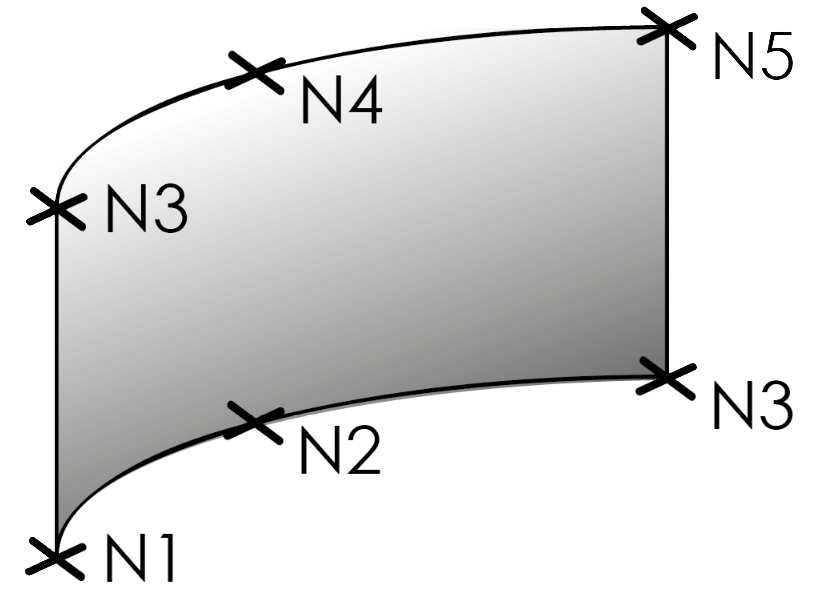
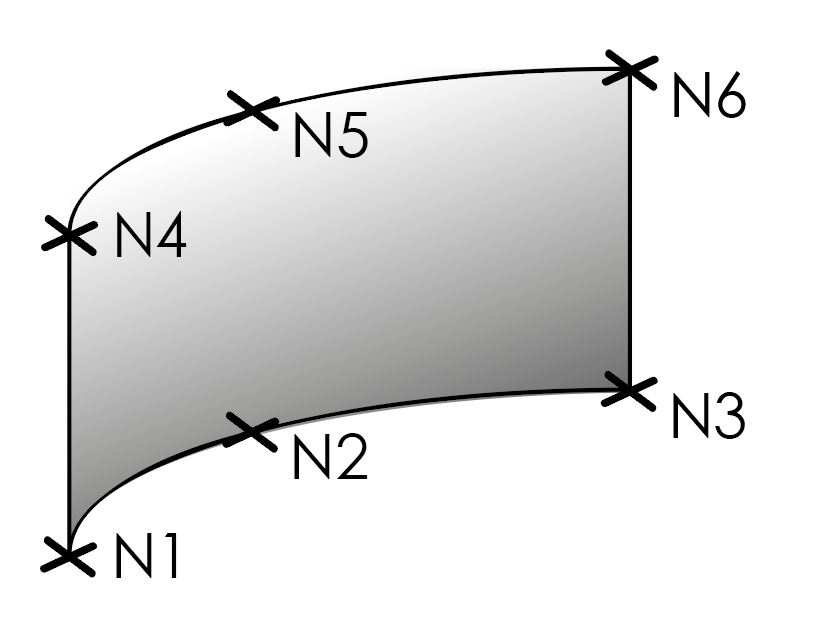
28_RelConnectsRigidLink.htm, 33_RelConnectsRigidCross.htm and 34_RelConnectsRigidMember.htm added enums for Graphisoft Text fixed Reviewed picture in 8_StructuralSurfaceMember

diff --git a/Content/A_Objects/33_RelConnectsRigidCross.htm b/Content/A_Objects/33_RelConnectsRigidCross.htm
@@ -1,5 +1,5 @@
 <?xml version="1.0" encoding="utf-8"?>
-<html xmlns:MadCap="http://www.madcapsoftware.com/Schemas/MadCap.xsd" MadCap:lastBlockDepth="6" MadCap:lastHeight="3339" MadCap:lastWidth="1826">
+<html xmlns:MadCap="http://www.madcapsoftware.com/Schemas/MadCap.xsd" MadCap:lastBlockDepth="6" MadCap:lastHeight="3765" MadCap:lastWidth="1826">
     <head>
         <link href="../Resources/TableStyles/NewStyle.css" rel="stylesheet" MadCap:stylesheetType="table" />
     </head>
@@ -7,7 +7,7 @@
         <p style="font-size: 18pt;text-decoration: none;">RelConnectsRigidCross</p>
         <hr />
         <p style="font-size: 15pt;">Rigid Cross</p>
-        <p>Rigit cross is defining structural behavior of node  (<a href="5_StructuralPointConnection.htm">StructuralPointConnection</a>), where two 1D elements (<a href="7_StructuralCurveMember.htm">StructuralCurveMember</a>) are being crossed. 1D members could be independent or dependency  could be defined in following excel sheet. Rigid cross is often used for bracing of the structure. </p>
+        <p>RigidCross is defining structural behavior of node  (<a href="5_StructuralPointConnection.htm">StructuralPointConnection</a>), where two 1D elements (<a href="7_StructuralCurveMember.htm">StructuralCurveMember</a>) are being crossed. 1D members could be independent or dependency  could be defined in following excel sheet. Rigid cross is often used for bracing of the structure. </p>
         <p style="text-align: left;">
             <img src="../Resources/Images/33_RigidCross.PNG" style="width: 409px;height: 336px;" />
         </p>
@@ -101,7 +101,11 @@
                     <td style="text-align: center;font-size: 9pt;vertical-align: middle;" class="TableStyle-NewStyle-BodyE-Column1-Body1">
                         <p>Free</p>
                         <p>Rigid</p>
+                        <p>Rigid compression only</p>
+                        <p>Rigid tension only</p>
                         <p>Flexible</p>
+                        <p>Flexible compression only</p>
+                        <p>Flexible tension only</p>
                         <p>Non-linear</p>
                     </td>
                     <td class="TableStyle-NewStyle-BodyE-Column1-Body1" style="font-size: 9pt;">no</td>
@@ -109,6 +113,7 @@
                     <td style="font-size: 9pt;text-align: left;vertical-align: middle;" class="TableStyle-NewStyle-BodyD-Column1-Body1">
                         <p>Displacement of first connected member</p>
                         <p>Free - That is it imposes no constraint in the direction. Rigid - The connection in fully rigid in the specified direction. Flexible - The connection is flexible (elastic) in the specified direction. Non-linear - resistance in specified direction could be defined</p>
+                        <p>Rigid/Flexible compression/tension only - acts rigid or flexible, only for defined strain (compression or tension)</p>
                     </td>
                 </tr>
                 <tr class="TableStyle-NewStyle-Body-Body2">
@@ -119,7 +124,11 @@
                     <td style="text-align: center;font-size: 9pt;vertical-align: middle;" class="TableStyle-NewStyle-BodyE-Column1-Body2">
                         <p>Free</p>
                         <p>Rigid</p>
+                        <p>Rigid compression only</p>
+                        <p>Rigid tension only</p>
                         <p>Flexible</p>
+                        <p>Flexible compression only</p>
+                        <p>Flexible tension only</p>
                         <p>Non-linear</p>
                     </td>
                     <td class="TableStyle-NewStyle-BodyE-Column1-Body2" style="font-size: 9pt;">no</td>
@@ -127,6 +136,7 @@
                     <td style="font-size: 9pt;text-align: left;vertical-align: middle;" class="TableStyle-NewStyle-BodyD-Column1-Body2">
                         <p>Displacement of second connected member</p>
                         <p>Free - That is it imposes no constraint in the direction. Rigid - The connection in fully rigid in the specified direction. Flexible - The connection is flexible (elastic) in the specified direction. Non-linear - resistance in specified direction could be defined</p>
+                        <p>Rigid/Flexible compression/tension only - acts rigid or flexible, only for defined strain (compression or tension)</p>
                     </td>
                 </tr>
                 <tr class="TableStyle-NewStyle-Body-Body1">
@@ -137,7 +147,11 @@
                     <td style="text-align: center;font-size: 9pt;vertical-align: middle;" class="TableStyle-NewStyle-BodyE-Column1-Body1">
                         <p>Free</p>
                         <p>Rigid</p>
+                        <p>Rigid compression only</p>
+                        <p>Rigid tension only</p>
                         <p>Flexible</p>
+                        <p>Flexible compression only</p>
+                        <p>Flexible tension only</p>
                         <p>Non-linear</p>
                     </td>
                     <td class="TableStyle-NewStyle-BodyE-Column1-Body1" style="font-size: 9pt;">no</td>
@@ -145,6 +159,7 @@
                     <td style="font-size: 9pt;text-align: left;vertical-align: middle;" class="TableStyle-NewStyle-BodyD-Column1-Body1">
                         <p>Displacement of RigidCross</p>
                         <p>Free - That is it imposes no constraint in the direction. Rigid - The connection in fully rigid in the specified direction. Flexible - The connection is flexible (elastic) in the specified direction. Non-linear - resistance in specified direction could be defined</p>
+                        <p>Rigid/Flexible compression/tension only - acts rigid or flexible, only for defined strain (compression or tension)</p>
                     </td>
                 </tr>
                 <tr class="TableStyle-NewStyle-Body-Body2">
@@ -203,11 +218,11 @@
                     <td style="text-align: center;font-size: 9pt;vertical-align: middle;" class="TableStyle-NewStyle-BodyE-Column1-Body1">Stiffness u1 [MN/m]</td>
                     <td style="text-align: center;font-size: 9pt;vertical-align: middle;" class="TableStyle-NewStyle-BodyE-Column1-Body1">Double</td>
                     <td style="text-align: center;font-size: 9pt;vertical-align: middle;" class="TableStyle-NewStyle-BodyE-Column1-Body1">3.0</td>
-                    <td class="TableStyle-NewStyle-BodyE-Column1-Body1" style="font-size: 9pt;">yes, if u1 = Flexible or Non-linear</td>
+                    <td class="TableStyle-NewStyle-BodyE-Column1-Body1" style="font-size: 9pt;">yes, if u1 = Flexible, Flexible compression/tension only or Non-linear</td>
                     <td class="TableStyle-NewStyle-BodyE-Column1-Body1" style="font-size: 9pt;">-</td>
                     <td style="font-size: 9pt;text-align: left;vertical-align: middle;" class="TableStyle-NewStyle-BodyD-Column1-Body1">
                         <p>The flexibility  in direction of first member</p>
-                        <p> Use this property only if the u1 is set Flexible or Non-linear</p>
+                        <p> Use this property only if the u1 is set Flexible, Flexible compression/tension only or Non-linear</p>
                     </td>
                 </tr>
                 <tr class="TableStyle-NewStyle-Body-Body2">
@@ -225,11 +240,11 @@
                     <td style="text-align: center;font-size: 9pt;vertical-align: middle;" class="TableStyle-NewStyle-BodyE-Column1-Body1">Stiffness u2 [MN/m]</td>
                     <td style="text-align: center;font-size: 9pt;vertical-align: middle;" class="TableStyle-NewStyle-BodyE-Column1-Body1">Double</td>
                     <td style="text-align: center;font-size: 9pt;vertical-align: middle;" class="TableStyle-NewStyle-BodyE-Column1-Body1">3.0</td>
-                    <td class="TableStyle-NewStyle-BodyE-Column1-Body1" style="font-size: 9pt;">yes, if u2 = Flexible or Non-linear</td>
+                    <td class="TableStyle-NewStyle-BodyE-Column1-Body1" style="font-size: 9pt;">yes, if u2 = Flexible, Flexible compression/tension only or Non-linear</td>
                     <td class="TableStyle-NewStyle-BodyE-Column1-Body1" style="font-size: 9pt;">-</td>
                     <td style="font-size: 9pt;text-align: left;vertical-align: middle;" class="TableStyle-NewStyle-BodyD-Column1-Body1">
                         <p>The flexibility in direction of second member</p>
-                        <p> Use this property only if the u2 is set Flexible or Non-linear</p>
+                        <p> Use this property only if the u2 is set Flexible, Flexible compression/tension only or Non-linear</p>
                     </td>
                 </tr>
                 <tr class="TableStyle-NewStyle-Body-Body2">
@@ -249,11 +264,11 @@
                     <td style="text-align: center;font-size: 9pt;vertical-align: middle;" class="TableStyle-NewStyle-BodyE-Column1-Body1">
                         <p>5.0</p>
                     </td>
-                    <td class="TableStyle-NewStyle-BodyE-Column1-Body1" style="font-size: 9pt;">yes, if u = Flexible or Non-linear</td>
+                    <td class="TableStyle-NewStyle-BodyE-Column1-Body1" style="font-size: 9pt;">yes, if u = Flexible, Flexible compression/tension only or Non-linear</td>
                     <td class="TableStyle-NewStyle-BodyE-Column1-Body1" style="font-size: 9pt;">-</td>
                     <td style="font-size: 9pt;text-align: left;vertical-align: middle;" class="TableStyle-NewStyle-BodyD-Column1-Body1">
                         <p>The flexibility of the RigidCross</p>
-                        <p> Use this property only if the u is set Flexible or Non-linear</p>
+                        <p> Use this property only if the u is set Flexible, Flexible compression/tension only or Non-linear</p>
                     </td>
                 </tr>
                 <tr class="TableStyle-NewStyle-Body-Body2">
@@ -271,7 +286,7 @@
                     <td style="text-align: center;font-size: 9pt;vertical-align: middle;" class="TableStyle-NewStyle-BodyE-Column1-Body1">Stiffness fi1 [MNm/rad]</td>
                     <td style="text-align: center;font-size: 9pt;vertical-align: middle;" class="TableStyle-NewStyle-BodyE-Column1-Body1">Double</td>
                     <td style="text-align: center;font-size: 9pt;vertical-align: middle;" class="TableStyle-NewStyle-BodyE-Column1-Body1">1.0</td>
-                    <td class="TableStyle-NewStyle-BodyE-Column1-Body1" style="font-size: 9pt;">yes, if fi1 = Flexible or Non-linear</td>
+                    <td class="TableStyle-NewStyle-BodyE-Column1-Body1" style="font-size: 9pt;">yes, if fi1 = Flexible, Flexible compression/tension only or Non-linear</td>
                     <td class="TableStyle-NewStyle-BodyE-Column1-Body1" style="font-size: 9pt;">-</td>
                     <td style="font-size: 9pt;text-align: left;vertical-align: middle;" class="TableStyle-NewStyle-BodyD-Column1-Body1">
                         <p>Torsional stiffness around the 1st member</p>
@@ -293,7 +308,7 @@
                     <td style="text-align: center;font-size: 9pt;vertical-align: middle;" class="TableStyle-NewStyle-BodyE-Column1-Body1">Stiffness Fi2 [MNm/rad]</td>
                     <td style="text-align: center;font-size: 9pt;vertical-align: middle;" class="TableStyle-NewStyle-BodyE-Column1-Body1">Double</td>
                     <td style="text-align: center;font-size: 9pt;vertical-align: middle;" class="TableStyle-NewStyle-BodyE-Column1-Body1">1.0</td>
-                    <td class="TableStyle-NewStyle-BodyE-Column1-Body1" style="font-size: 9pt;">yes, if fi2 = Flexible or Non-linear</td>
+                    <td class="TableStyle-NewStyle-BodyE-Column1-Body1" style="font-size: 9pt;">yes, if fi2 = Flexible, or Non-linear</td>
                     <td class="TableStyle-NewStyle-BodyE-Column1-Body1" style="font-size: 9pt;">-</td>
                     <td style="font-size: 9pt;text-align: left;vertical-align: middle;" class="TableStyle-NewStyle-BodyD-Column1-Body1">
                         <p>Torsional stiffness around the 2st member</p>

diff --git a/Content/A_Objects/28_RelConnectsRigidLink.htm b/Content/A_Objects/28_RelConnectsRigidLink.htm
@@ -1,5 +1,5 @@
 <?xml version="1.0" encoding="utf-8"?>
-<html xmlns:MadCap="http://www.madcapsoftware.com/Schemas/MadCap.xsd" MadCap:lastBlockDepth="6" MadCap:lastHeight="3734" MadCap:lastWidth="1826">
+<html xmlns:MadCap="http://www.madcapsoftware.com/Schemas/MadCap.xsd" MadCap:lastBlockDepth="6" MadCap:lastHeight="4148" MadCap:lastWidth="1826">
     <head>
         <link href="../Resources/TableStyles/NewStyle.css" rel="stylesheet" MadCap:stylesheetType="table" />
     </head>
@@ -141,7 +141,11 @@
                     <td style="text-align: center;font-size: 9pt;vertical-align: middle;" class="TableStyle-NewStyle-BodyE-Column1-Body1">
                         <p>Free</p>
                         <p>Rigid</p>
+                        <p>Rigid compression only</p>
+                        <p>Rigid tension only</p>
                         <p>Flexible</p>
+                        <p>Flexible compression only</p>
+                        <p>Flexible tension only</p>
                         <p>Non-linear</p>
                     </td>
                     <td class="TableStyle-NewStyle-BodyE-Column1-Body1" style="font-size: 9pt;">no</td>
@@ -149,6 +153,7 @@
                     <td style="font-size: 9pt;text-align: left;vertical-align: middle;" class="TableStyle-NewStyle-BodyD-Column1-Body1">
                         <p>Displacement in the direction X</p>
                         <p>Free - That is it imposes no constraint in the direction. Rigid - The connection in fully rigid in the specified direction. Flexible - The connection is flexible (elastic) in the specified direction. Non-linear - resistance in specified direction could be defined</p>
+                        <p>Rigid/Flexible compression/tension only - acts rigid or flexible, only for defined strain (compression or tension)</p>
                     </td>
                 </tr>
                 <tr class="TableStyle-NewStyle-Body-Body2">
@@ -159,7 +164,11 @@
                     <td style="text-align: center;font-size: 9pt;vertical-align: middle;" class="TableStyle-NewStyle-BodyE-Column1-Body2">
                         <p>Free</p>
                         <p>Rigid</p>
+                        <p>Rigid compression only</p>
+                        <p>Rigid tension only</p>
                         <p>Flexible</p>
+                        <p>Flexible compression only</p>
+                        <p>Flexible tension only</p>
                         <p>Non-linear</p>
                     </td>
                     <td class="TableStyle-NewStyle-BodyE-Column1-Body2" style="font-size: 9pt;">no</td>
@@ -167,6 +176,7 @@
                     <td style="font-size: 9pt;text-align: left;vertical-align: middle;" class="TableStyle-NewStyle-BodyD-Column1-Body2">
                         <p>Displacement in the direction Y</p>
                         <p>Free - That is it imposes no constraint in the direction. Rigid - The connection in fully rigid in the specified direction. Flexible - The connection is flexible (elastic) in the specified direction. Non-linear - resistance in specified direction could be defined</p>
+                        <p>Rigid/Flexible compression/tension only - acts rigid or flexible, only for defined strain (compression or tension)</p>
                     </td>
                 </tr>
                 <tr class="TableStyle-NewStyle-Body-Body1">
@@ -175,7 +185,11 @@
                     <td style="text-align: center;font-size: 9pt;vertical-align: middle;" class="TableStyle-NewStyle-BodyE-Column1-Body1">
                         <p>Free</p>
                         <p>Rigid</p>
+                        <p>Rigid compression only</p>
+                        <p>Rigid tension only</p>
                         <p>Flexible</p>
+                        <p>Flexible compression only</p>
+                        <p>Flexible tension only</p>
                         <p>Non-linear</p>
                     </td>
                     <td class="TableStyle-NewStyle-BodyE-Column1-Body1" style="font-size: 9pt;">no</td>
@@ -183,6 +197,7 @@
                     <td style="font-size: 9pt;text-align: left;vertical-align: middle;" class="TableStyle-NewStyle-BodyD-Column1-Body1">
                         <p>Displacement in the direction Z</p>
                         <p>Free - That is it imposes no constraint in the direction. Rigid - The connection in fully rigid in the specified direction. Flexible - The connection is flexible (elastic) in the specified direction. Non-linear - resistance in specified direction could be defined</p>
+                        <p>Rigid/Flexible compression/tension only - acts rigid or flexible, only for defined strain (compression or tension)</p>
                     </td>
                 </tr>
                 <tr class="TableStyle-NewStyle-Body-Body2">
@@ -239,11 +254,11 @@
                     <td style="text-align: center;font-size: 9pt;vertical-align: middle;" class="TableStyle-NewStyle-BodyE-Column1-Body1">
                         <p>3.00</p>
                     </td>
-                    <td class="TableStyle-NewStyle-BodyE-Column1-Body1" style="font-size: 9pt;">yes, if ux = Flexible or Non-linear</td>
+                    <td class="TableStyle-NewStyle-BodyE-Column1-Body1" style="font-size: 9pt;">yes, if ux = Flexible,  Flexible compression/tension only or Non-linear</td>
                     <td class="TableStyle-NewStyle-BodyE-Column1-Body1" style="font-size: 9pt;">-</td>
                     <td style="font-size: 9pt;text-align: left;vertical-align: middle;" class="TableStyle-NewStyle-BodyD-Column1-Body1">
                         <p>The flexibility  in direction X</p>
-                        <p> Use this property only if the ux is set Flexible or Non-linear</p>
+                        <p> Use this property only if the ux is set Flexible,  Flexible compression/tension only or Non-linear</p>
                     </td>
                 </tr>
                 <tr class="TableStyle-NewStyle-Body-Body2">
@@ -261,11 +276,11 @@
                     <td style="text-align: center;font-size: 9pt;vertical-align: middle;" class="TableStyle-NewStyle-BodyE-Column1-Body1">Stiffness Y [MN/m]</td>
                     <td style="text-align: center;font-size: 9pt;vertical-align: middle;" class="TableStyle-NewStyle-BodyE-Column1-Body1">Double</td>
                     <td style="text-align: center;font-size: 9pt;vertical-align: middle;" class="TableStyle-NewStyle-BodyE-Column1-Body1">2.50</td>
-                    <td class="TableStyle-NewStyle-BodyE-Column1-Body1" style="font-size: 9pt;">yes, if uy = Flexible or Non-linear</td>
+                    <td class="TableStyle-NewStyle-BodyE-Column1-Body1" style="font-size: 9pt;">yes, if uy = Flexible,  Flexible compression/tension only or Non-linear</td>
                     <td class="TableStyle-NewStyle-BodyE-Column1-Body1" style="font-size: 9pt;">-</td>
                     <td style="font-size: 9pt;text-align: left;vertical-align: middle;" class="TableStyle-NewStyle-BodyD-Column1-Body1">
                         <p>The flexibility  in direction Y</p>
-                        <p> Use this property only if the uy is set Non-linear</p>
+                        <p> Use this property only if the uy is set Flexible,  Flexible compression/tension only or Non-linear</p>
                     </td>
                 </tr>
                 <tr class="TableStyle-NewStyle-Body-Body2">
@@ -283,11 +298,11 @@
                     <td style="text-align: center;font-size: 9pt;vertical-align: middle;" class="TableStyle-NewStyle-BodyE-Column1-Body1">Stiffness Z [MN/m]</td>
                     <td style="text-align: center;font-size: 9pt;vertical-align: middle;" class="TableStyle-NewStyle-BodyE-Column1-Body1">Double</td>
                     <td style="text-align: center;font-size: 9pt;vertical-align: middle;" class="TableStyle-NewStyle-BodyE-Column1-Body1">2.00</td>
-                    <td class="TableStyle-NewStyle-BodyE-Column1-Body1" style="font-size: 9pt;">yes, if uz = Flexible or Non-linear</td>
+                    <td class="TableStyle-NewStyle-BodyE-Column1-Body1" style="font-size: 9pt;">yes, if uz = Flexible,  Flexible compression/tension only or Non-linear</td>
                     <td class="TableStyle-NewStyle-BodyE-Column1-Body1" style="font-size: 9pt;">-</td>
                     <td style="font-size: 9pt;text-align: left;vertical-align: middle;" class="TableStyle-NewStyle-BodyD-Column1-Body1">
                         <p>The flexibility  in direction Z</p>
-                        <p> Use this property only if the uz is set Flexible or Non-linear</p>
+                        <p> Use this property only if the uz is set Flexible,  Flexible compression/tension only or Non-linear</p>
                     </td>
                 </tr>
                 <tr class="TableStyle-NewStyle-Body-Body2">
@@ -320,7 +335,7 @@
                     <td class="TableStyle-NewStyle-BodyE-Column1-Body2" style="font-size: 9pt;">-</td>
                     <td style="font-size: 9pt;text-align: left;vertical-align: middle;" class="TableStyle-NewStyle-BodyD-Column1-Body2">
                         <p>The resistance in rotation around Y axis</p>
-                        <p>Use this property only if the Rotational stiffness fix is Flexible or Non-linear</p>
+                        <p>Use this property only if the Rotational stiffness fix is Non-linear</p>
                     </td>
                 </tr>
                 <tr class="TableStyle-NewStyle-Body-Body1">

diff --git a/Content/A_Objects/34_RelConnectsRigidMember.htm b/Content/A_Objects/34_RelConnectsRigidMember.htm
@@ -1,5 +1,5 @@
 <?xml version="1.0" encoding="utf-8"?>
-<html xmlns:MadCap="http://www.madcapsoftware.com/Schemas/MadCap.xsd" MadCap:lastBlockDepth="6" MadCap:lastHeight="3586" MadCap:lastWidth="1826">
+<html xmlns:MadCap="http://www.madcapsoftware.com/Schemas/MadCap.xsd" MadCap:lastBlockDepth="6" MadCap:lastHeight="4000" MadCap:lastWidth="1826">
     <head>
         <link href="../Resources/TableStyles/NewStyle.css" rel="stylesheet" MadCap:stylesheetType="table" />
     </head>
@@ -171,7 +171,11 @@
                     <td style="text-align: center;font-size: 9pt;vertical-align: middle;" class="TableStyle-NewStyle-BodyE-Column1-Body1">
                         <p>Free</p>
                         <p>Rigid</p>
+                        <p>Rigid compression only</p>
+                        <p>Rigid tension only</p>
                         <p>Flexible</p>
+                        <p>Flexible compression only</p>
+                        <p>Flexible tension only</p>
                         <p>Non-linear</p>
                     </td>
                     <td class="TableStyle-NewStyle-BodyE-Column1-Body1" style="font-size: 9pt;">no</td>
@@ -179,6 +183,7 @@
                     <td style="font-size: 9pt;text-align: left;vertical-align: middle;" class="TableStyle-NewStyle-BodyD-Column1-Body1">
                         <p>Displacement in the direction X</p>
                         <p>Free - That is it imposes no constraint in the direction. Rigid - The connection in fully rigid in the specified direction. Flexible - The connection is flexible (elastic) in the specified direction. Non-linear - resistance in specified direction could be defined</p>
+                        <p>Rigid/Flexible compression/tension only - acts rigid or flexible, only for defined strain (compression or tension)</p>
                     </td>
                 </tr>
                 <tr class="TableStyle-NewStyle-Body-Body2">
@@ -187,7 +192,11 @@
                     <td style="text-align: center;font-size: 9pt;vertical-align: middle;" class="TableStyle-NewStyle-BodyE-Column1-Body2">
                         <p>Free</p>
                         <p>Rigid</p>
+                        <p>Rigid compression only</p>
+                        <p>Rigid tension only</p>
                         <p>Flexible</p>
+                        <p>Flexible compression only</p>
+                        <p>Flexible tension only</p>
                         <p>Non-linear</p>
                     </td>
                     <td class="TableStyle-NewStyle-BodyE-Column1-Body2" style="font-size: 9pt;">no</td>
@@ -195,6 +204,7 @@
                     <td style="font-size: 9pt;text-align: left;vertical-align: middle;" class="TableStyle-NewStyle-BodyD-Column1-Body2">
                         <p>Displacement in the direction Y</p>
                         <p>Free - That is it imposes no constraint in the direction. Rigid - The connection in fully rigid in the specified direction. Flexible - The connection is flexible (elastic) in the specified direction. Non-linear - resistance in specified direction could be defined</p>
+                        <p>Rigid/Flexible compression/tension only - acts rigid or flexible, only for defined strain (compression or tension)</p>
                     </td>
                 </tr>
                 <tr class="TableStyle-NewStyle-Body-Body1">
@@ -203,7 +213,11 @@
                     <td style="text-align: center;font-size: 9pt;vertical-align: middle;" class="TableStyle-NewStyle-BodyE-Column1-Body1">
                         <p>Free</p>
                         <p>Rigid</p>
+                        <p>Rigid compression only</p>
+                        <p>Rigid tension only</p>
                         <p>Flexible</p>
+                        <p>Flexible compression only</p>
+                        <p>Flexible tension only</p>
                         <p>Non-linear</p>
                     </td>
                     <td class="TableStyle-NewStyle-BodyE-Column1-Body1" style="font-size: 9pt;">no</td>
@@ -211,6 +225,7 @@
                     <td style="font-size: 9pt;text-align: left;vertical-align: middle;" class="TableStyle-NewStyle-BodyD-Column1-Body1">
                         <p>Displacement in the direction Z</p>
                         <p>Free - That is it imposes no constraint in the direction. Rigid - The connection in fully rigid in the specified direction. Flexible - The connection is flexible (elastic) in the specified direction. Non-linear - resistance in specified direction could be defined</p>
+                        <p>Rigid/Flexible compression/tension only - acts rigid or flexible, only for defined strain (compression or tension)</p>
                     </td>
                 </tr>
                 <tr class="TableStyle-NewStyle-Body-Body2">
@@ -267,11 +282,11 @@
                     <td style="text-align: center;font-size: 9pt;vertical-align: middle;" class="TableStyle-NewStyle-BodyE-Column1-Body1">
                         <p>3.00</p>
                     </td>
-                    <td class="TableStyle-NewStyle-BodyE-Column1-Body1" style="font-size: 9pt;">yes, if ux = Flexible or Non-linear</td>
+                    <td class="TableStyle-NewStyle-BodyE-Column1-Body1" style="font-size: 9pt;">yes, if ux = Flexible,   Flexible compression/tension or Non-linear</td>
                     <td class="TableStyle-NewStyle-BodyE-Column1-Body1" style="font-size: 9pt;">-</td>
                     <td style="font-size: 9pt;text-align: left;vertical-align: middle;" class="TableStyle-NewStyle-BodyD-Column1-Body1">
                         <p>The flexibility  in direction X</p>
-                        <p> Use this property only if the ux is set Flexible or Non-linear</p>
+                        <p> Use this property only if the ux is set Flexible,   Flexible compression/tension or Non-linear</p>
                     </td>
                 </tr>
                 <tr class="TableStyle-NewStyle-Body-Body2">
@@ -289,11 +304,11 @@
                     <td style="text-align: center;font-size: 9pt;vertical-align: middle;" class="TableStyle-NewStyle-BodyE-Column1-Body1">Stiffness Y [MN/m<sup>2</sup>]</td>
                     <td style="text-align: center;font-size: 9pt;vertical-align: middle;" class="TableStyle-NewStyle-BodyE-Column1-Body1">Double</td>
                     <td style="text-align: center;font-size: 9pt;vertical-align: middle;" class="TableStyle-NewStyle-BodyE-Column1-Body1">2.50</td>
-                    <td class="TableStyle-NewStyle-BodyE-Column1-Body1" style="font-size: 9pt;">yes, if uy = Flexible or Non-linear</td>
+                    <td class="TableStyle-NewStyle-BodyE-Column1-Body1" style="font-size: 9pt;">yes, if uy = Flexible,   Flexible compression/tension or Non-linear</td>
                     <td class="TableStyle-NewStyle-BodyE-Column1-Body1" style="font-size: 9pt;">-</td>
                     <td style="font-size: 9pt;text-align: left;vertical-align: middle;" class="TableStyle-NewStyle-BodyD-Column1-Body1">
                         <p>The flexibility  in direction Y</p>
-                        <p> Use this property only if the uy is set Non-linear</p>
+                        <p> Use this property only if the uy is set Flexible,   Flexible compression/tension or Non-linear</p>
                     </td>
                 </tr>
                 <tr class="TableStyle-NewStyle-Body-Body2">
@@ -311,11 +326,11 @@
                     <td style="text-align: center;font-size: 9pt;vertical-align: middle;" class="TableStyle-NewStyle-BodyE-Column1-Body1">Stiffness Z [MN/m<sup>2</sup>]</td>
                     <td style="text-align: center;font-size: 9pt;vertical-align: middle;" class="TableStyle-NewStyle-BodyE-Column1-Body1">Double</td>
                     <td style="text-align: center;font-size: 9pt;vertical-align: middle;" class="TableStyle-NewStyle-BodyE-Column1-Body1">2.00</td>
-                    <td class="TableStyle-NewStyle-BodyE-Column1-Body1" style="font-size: 9pt;">yes, if uz = Flexible or Non-linear</td>
+                    <td class="TableStyle-NewStyle-BodyE-Column1-Body1" style="font-size: 9pt;">yes, if uz = Flexible,   Flexible compression/tension or Non-linear</td>
                     <td class="TableStyle-NewStyle-BodyE-Column1-Body1" style="font-size: 9pt;">-</td>
                     <td style="font-size: 9pt;text-align: left;vertical-align: middle;" class="TableStyle-NewStyle-BodyD-Column1-Body1">
                         <p>The flexibility  in direction Z</p>
-                        <p> Use this property only if the uz is set Flexible or Non-linear</p>
+                        <p> Use this property only if the uz is set Flexible, Flexible compression/tension or Non-linear</p>
                     </td>
                 </tr>
                 <tr class="TableStyle-NewStyle-Body-Body2">
@@ -348,7 +363,7 @@
                     <td class="TableStyle-NewStyle-BodyE-Column1-Body2" style="font-size: 9pt;">-</td>
                     <td style="font-size: 9pt;text-align: left;vertical-align: middle;" class="TableStyle-NewStyle-BodyD-Column1-Body2">
                         <p>The resistance in rotation around Y axis</p>
-                        <p>Use this property only if the Rotational stiffness fix is Flexible or Non-linear</p>
+                        <p>Use this property only if the Rotational stiffness fix is Non-linear</p>
                     </td>
                 </tr>
                 <tr class="TableStyle-NewStyle-Body-Body1">
